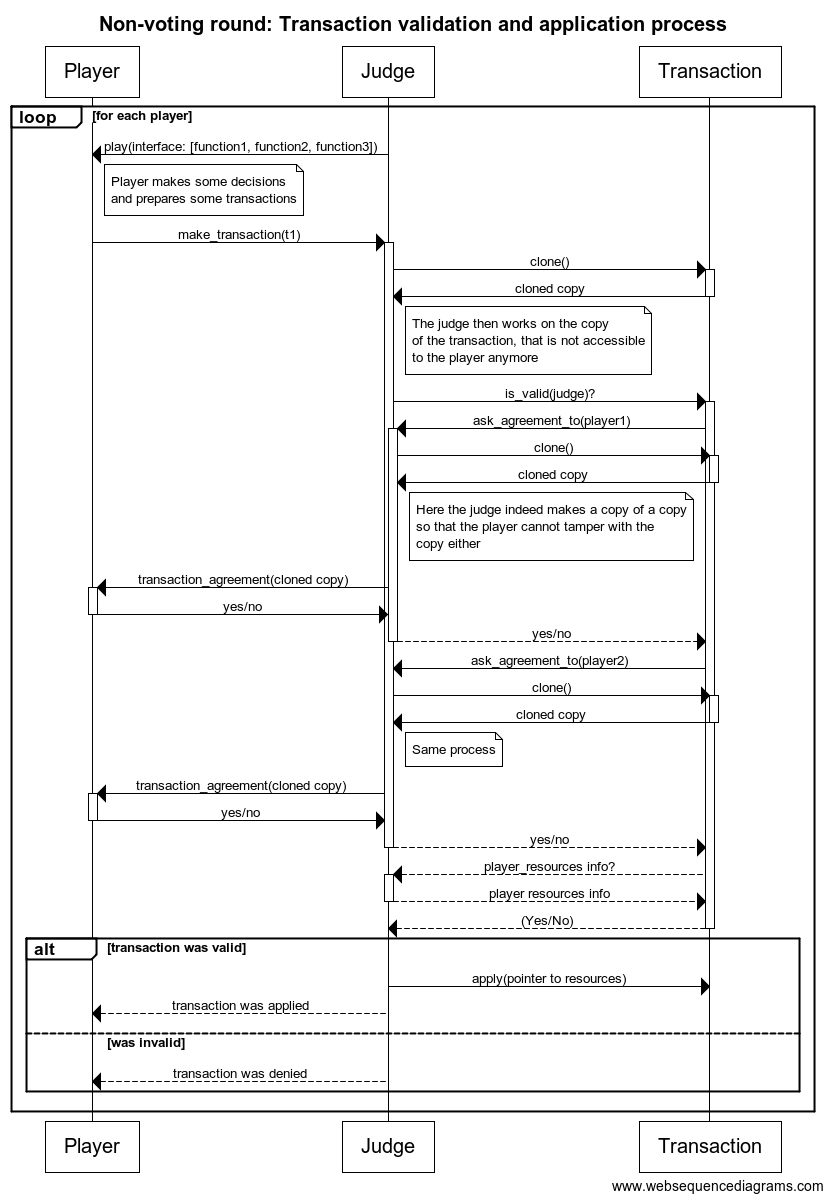
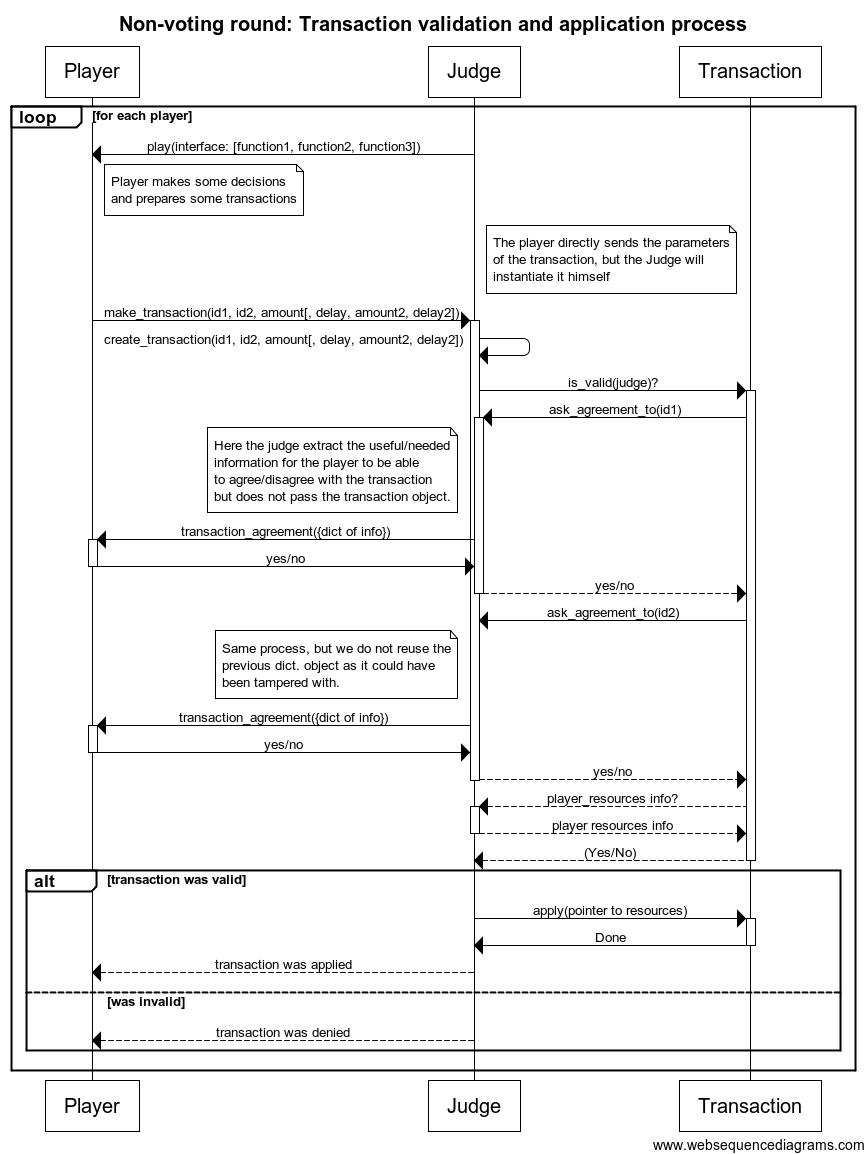
Updated the non-voting round WSD + added the WSD source in the repo directly + resized a little bit as Latex transformed that into a post stamp

Changed region(s): [[0.0, 0.0, 1.0, 1.0]]

diff --git a/paper/Real-Life-Security-Security-Protocols-With-Downsizing-Game.md b/paper/Real-Life-Security-Security-Protocols-With-Downsizing-Game.md
@@ -665,7 +665,7 @@ The pseudo-code of a non-voting round is located in the [appendix][coderound]
 
 ![Non-voting Round Sequence Diagram][seqdiaground]
 
-[seqdiaground]: round_seq_diagram.png
+[seqdiaground]: round_seq_diagram.png width=425px height=567px
 
 ### Voting round
 
